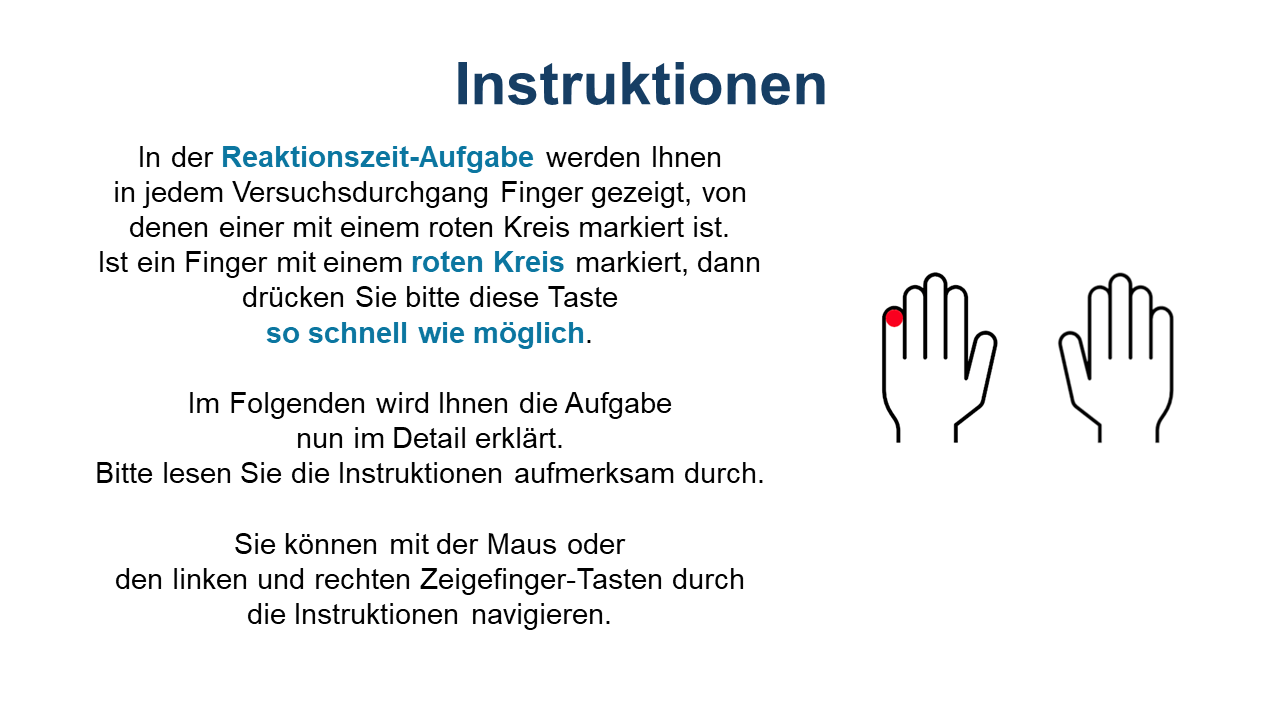
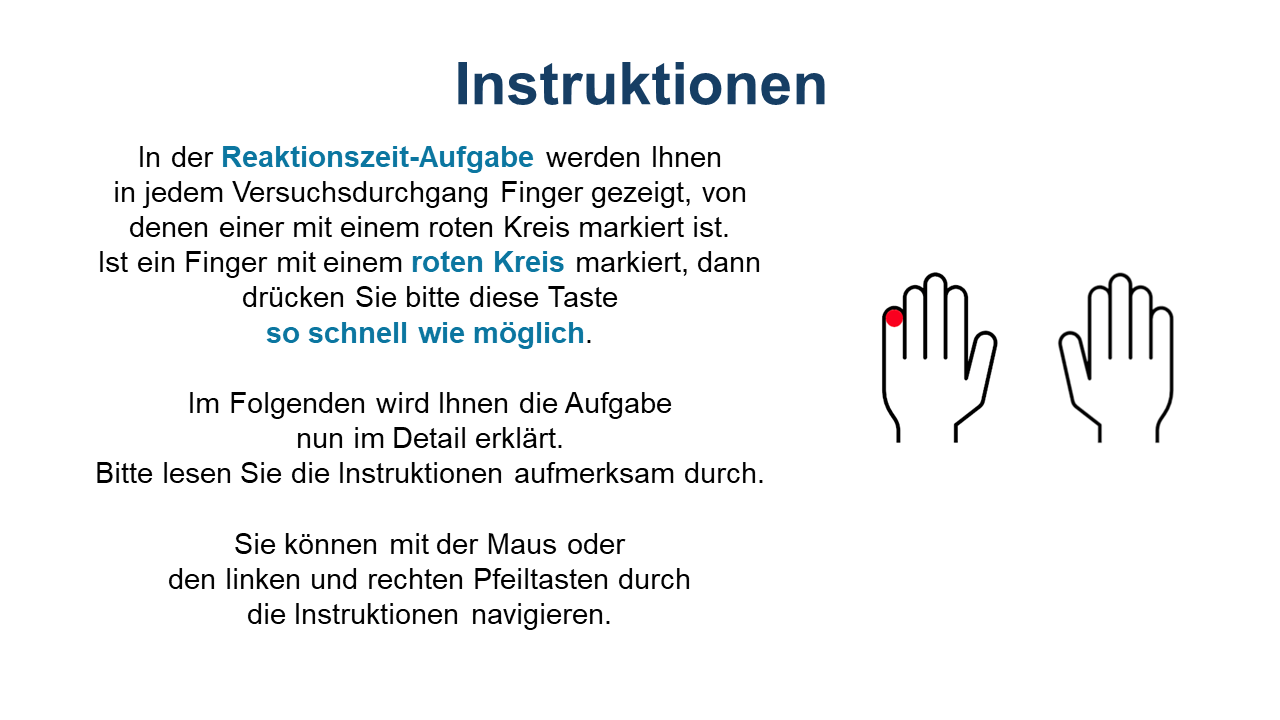
change keybpard keys for isntructions to arrow keys

Changed region(s): [[0.0938, 0.7944, 0.5938, 0.825]]

diff --git a/tasks/object-response-binding-visual/src/settings.ts b/tasks/object-response-binding-visual/src/settings.ts
@@ -87,7 +87,7 @@ export function MakeExpInfo(task_condition) {
         stim_count: 274, // number of stimuli
         stim_index_dec: random.sample(Array.from(Array(274).keys()).map(i => i + 1), 252),
         stim_index_proc: random.sample(Array.from(Array(274).keys()).map(i => i + 1), 252), // sample 252 from 274 stimulus indices 
-        instruction_keys_keyboard: ['f', 'h'], // instruction keys on keyboard
+        instruction_keys_keyboard: ['ArrowLeft', 'ArrowRight'], // instruction keys on keyboard
         instruction_keys_box: ['alt', 'control'], // instruction keys on response box
         resp_keys_keyboard:['a', 's', 'd', 'f', 'h', 'j', 'k', 'l'], // response keys on keyboard
         resp_keys_box:['a', 's', 'd', 'alt', 'control', 'j', 'k', 'l'], // response keys on repsonse box
